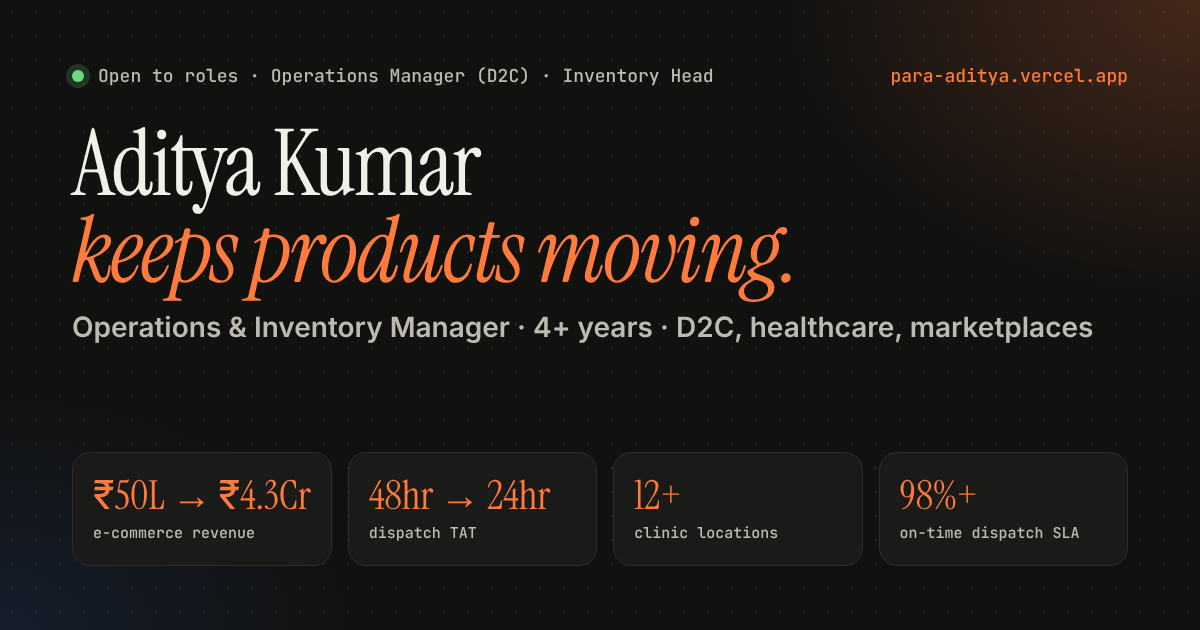
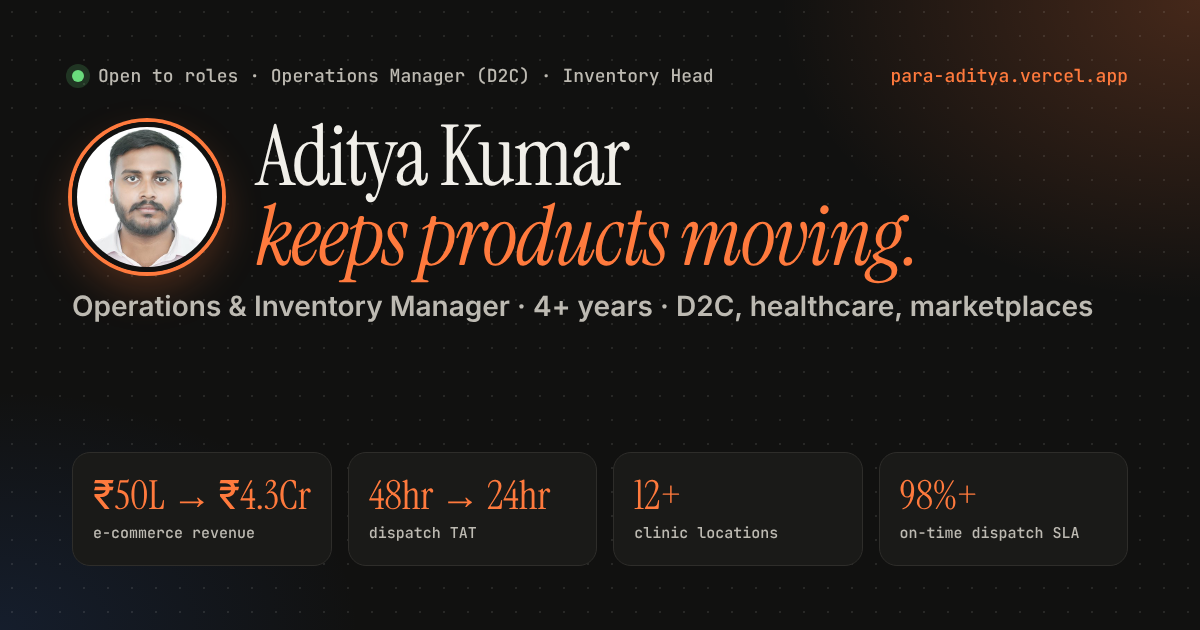
Add professional photo; COD RTO 37% -> under 8% in one month
- Hero: round photo with animated accent ring and green 'open' dot
  (WebP + JPEG, ~10-18 KB); buttons still above the fold on laptops
- Link preview image now includes the photo
- COD case: title, result and to-scale before/after bars (37% -> <8%)

Claude-Session: https://claude.ai/code/session_01JG9yEmuScTpWqYxqaMBNe1

Changed region(s): [[0.0308, 0.181, 0.925, 0.5429]]

diff --git a/index.html b/index.html
@@ -84,7 +84,10 @@
       </div>
       <div class="hero-grid">
       <div class="hero-copy">
-      <p class="eyebrow"><span class="pulse" aria-hidden="true"></span> Open to new roles · Chandigarh, open to relocate</p>
+      <div class="hero-id">
+        <span class="avatar-wrap"><picture><source srcset="aditya.webp" type="image/webp"><img class="avatar" src="aditya.jpg" alt="Photo of Aditya Kumar" width="64" height="64" decoding="async"></picture><span class="avatar-dot" aria-hidden="true"></span></span>
+        <p class="eyebrow"><span class="pulse" aria-hidden="true"></span> Open to new roles · Chandigarh, open to relocate</p>
+      </div>
       <h1>I keep products <em>moving</em> — from shelf to doorstep, on time.</h1>
       <p class="lede">I'm <strong>Aditya Kumar</strong>, an Operations &amp; Inventory Manager passionate about building smarter, technology-driven operations. With 4+ years across D2C e-commerce, healthcare, and marketplaces, I leverage automation, data analytics, and process optimisation to improve inventory visibility, accelerate dispatch, and strengthen operational performance.</p>
       <div class="seeking" aria-label="Roles I'm looking for">
@@ -351,15 +354,20 @@
       <article class="case">
         <div class="case-text">
           <p class="case-meta"><span class="badge-neutral">Courier · RTO</span> Cash-on-delivery orders</p>
-          <h3><svg class="h3-ic" viewBox="0 0 24 24" aria-hidden="true"><path d="M5 3h4l2 5-2.5 1.5a11 11 0 0 0 6 6L16 13l5 2v4a2 2 0 0 1-2 2A17 17 0 0 1 3 5a2 2 0 0 1 2-2z"/></svg>Cutting COD returns before they ship</h3>
+          <h3><svg class="h3-ic" viewBox="0 0 24 24" aria-hidden="true"><path d="M5 3h4l2 5-2.5 1.5a11 11 0 0 0 6 6L16 13l5 2v4a2 2 0 0 1-2 2A17 17 0 0 1 3 5a2 2 0 0 1 2-2z"/></svg>Cutting COD returns from 37% to under 8%</h3>
           <dl>
             <dt>Issue</dt><dd>Full cash-on-delivery (COD) orders were coming back as RTO (return to origin), costing two-way shipping on every failed order.</dd>
             <dt>Root cause</dt><dd>Orders shipped on unverified addresses and single phone numbers, and some full-COD buyers weren't committed to the purchase.</dd>
             <dt>How I handled it</dt><dd>Before dispatch, we confirm every full-COD order with the customer, re-verify the address and add an alternate phone number. Then we moved to advance COD, a small amount paid upfront, so the buyer is genuine and actually wants the product.</dd>
-            <dt>Result</dt><dd>Only confirmed, committed orders leave the warehouse, so fewer COD parcels come back as RTO.</dd>
+            <dt>Result</dt><dd>COD RTO dropped from <strong>37% to under 8%</strong> within a single month. Only confirmed, committed orders now leave the warehouse.</dd>
           </dl>
         </div>
-        <figure class="case-visual" aria-label="COD order checks: confirm with the customer, re-verify address, add alternate phone, take advance COD, then dispatch">
+        <figure class="case-visual" aria-label="COD RTO fell from 37% to under 8% in one month, after these checks: confirm with the customer, re-verify address, add alternate phone, take advance COD, then dispatch">
+          <div class="cod-metric" data-animate>
+            <div class="cm-row"><span class="cm-lbl">Before</span><div class="cm-track"><div class="cm-bar cm-before" style="--w:37%"></div></div><span class="cm-val">37%</span></div>
+            <div class="cm-row"><span class="cm-lbl">1 month later</span><div class="cm-track"><div class="cm-bar cm-after" style="--w:8%"></div></div><span class="cm-val cm-good">&lt;8%</span></div>
+            <p class="cm-cap">COD RTO rate, bars to scale</p>
+          </div>
           <ol class="codflow">
             <li style="--s:0"><b>COD order</b><small>full cash on delivery</small></li>
             <li style="--s:1"><b>Confirm with customer</b><small>call before dispatch</small></li>

diff --git a/styles.css b/styles.css
@@ -842,3 +842,34 @@ body.building .to-top { opacity: 0; pointer-events: none; }
 }
 @media (min-width: 961px) { .hero { padding-top: 36px; } .hero h1 { margin: 18px 0 18px; } }
 .wa-float.hide { visibility: hidden; transition: opacity .3s ease-out, visibility 0s linear .3s; }
+
+/* ───────── Hero photo ───────── */
+.hero-id { display: flex; align-items: center; gap: 14px; flex-wrap: wrap; }
+.avatar-wrap { position: relative; flex: none; width: 64px; height: 64px; border-radius: 50%; padding: 3px; background: conic-gradient(from 210deg, var(--accent), #ffb37d, var(--accent), #b5502f, var(--accent)); box-shadow: 0 8px 24px color-mix(in srgb, var(--accent) 30%, transparent); animation: ring-spin 8s linear infinite; }
+.avatar-wrap picture, .avatar { display: block; width: 100%; height: 100%; border-radius: 50%; }
+.avatar { object-fit: cover; border: 3px solid var(--bg); animation: ring-spin 8s linear infinite reverse; transition: transform .25s ease-out; }
+.avatar-wrap:hover .avatar { transform: scale(1.06); }
+.avatar-dot { position: absolute; right: 1px; bottom: 3px; width: 14px; height: 14px; border-radius: 50%; background: var(--good); border: 3px solid var(--bg); animation: none; }
+@keyframes ring-spin { to { transform: rotate(360deg); } }
+@media (max-width: 520px) { .avatar-wrap { width: 56px; height: 56px; } }
+
+/* ───────── COD before/after metric ───────── */
+.cod-metric { display: grid; gap: 10px; margin-bottom: 18px; padding-bottom: 16px; border-bottom: 1px dashed var(--line); }
+.cm-row { display: grid; grid-template-columns: 96px 1fr 48px; align-items: center; gap: 10px; font: 500 12.5px var(--mono); }
+.cm-lbl { color: var(--ink-3); }
+.cm-track { height: 12px; border-radius: 99px; background: var(--surface-2); overflow: hidden; }
+.cm-bar { height: 100%; width: 0; border-radius: 99px; transition: width 1.4s cubic-bezier(.2,.8,.2,1); }
+.cm-before { background: #e8590c; }
+.cm-after { background: var(--good); transition-delay: .5s; }
+.in .cm-bar, .built .cm-bar, .cod-metric.in .cm-bar { width: var(--w); }
+.cm-val { text-align: right; font-weight: 600; color: #ff9b6a; }
+.cm-good { color: var(--good); }
+.cm-cap { font: 400 11.5px var(--mono); color: var(--ink-3); }
+@media (min-width: 961px) {
+  .avatar-wrap { width: 54px; height: 54px; }
+  .hero { padding-top: 28px; }
+  .hero h1 { margin: 14px 0 16px; }
+  .seeking { margin-top: 14px; }
+  .hero .cta { margin-top: 18px; }
+}
+.cm-row { grid-template-columns: 112px 1fr 48px; }

diff --git a/build.js b/build.js
@@ -10,7 +10,7 @@
     { name: 'Vendors',   color: '#2e6bd9' },
     { name: 'MIS',       color: '#7a4bd1' },
   ];
-  const HERO = ['.hero .eyebrow', '.hero h1', '.hero .lede', '.hero .cta', '.hero .small-link', '.hero .build-btn', '.hero-art', '.ticker'];
+  const HERO = ['.hero .avatar-wrap', '.hero .eyebrow', '.hero h1', '.hero .lede', '.hero .cta', '.hero .small-link', '.hero .build-btn', '.hero-art', '.ticker'];
   const SECTIONS = [
     '#impact .section-head', '#impact .group-label', '#impact .tile',
     '#work .section-head', '#work .case-text', '#work .case-visual',
@@ -111,7 +111,7 @@
     if (el.closest('footer')) return 'Footer · Download CV';
     if (el.matches('.ticker')) return 'Intro · Tools';
     if (el.closest('.hero')) {
-      const part = el.matches('.eyebrow') ? 'Status' : el.matches('h1') ? 'Headline' : el.matches('.lede') ? 'About me'
+      const part = el.matches('.avatar-wrap') ? 'Photo' : el.matches('.eyebrow') ? 'Status' : el.matches('h1') ? 'Headline' : el.matches('.lede') ? 'About me'
         : el.matches('.cta') ? 'Contact' : el.matches('.small-link') ? 'LinkedIn' : el.matches('.build-btn') ? 'Tour'
         : el.matches('.hero-art') ? 'Dispatch scene' : 'Intro';
       return 'Intro · ' + part;
